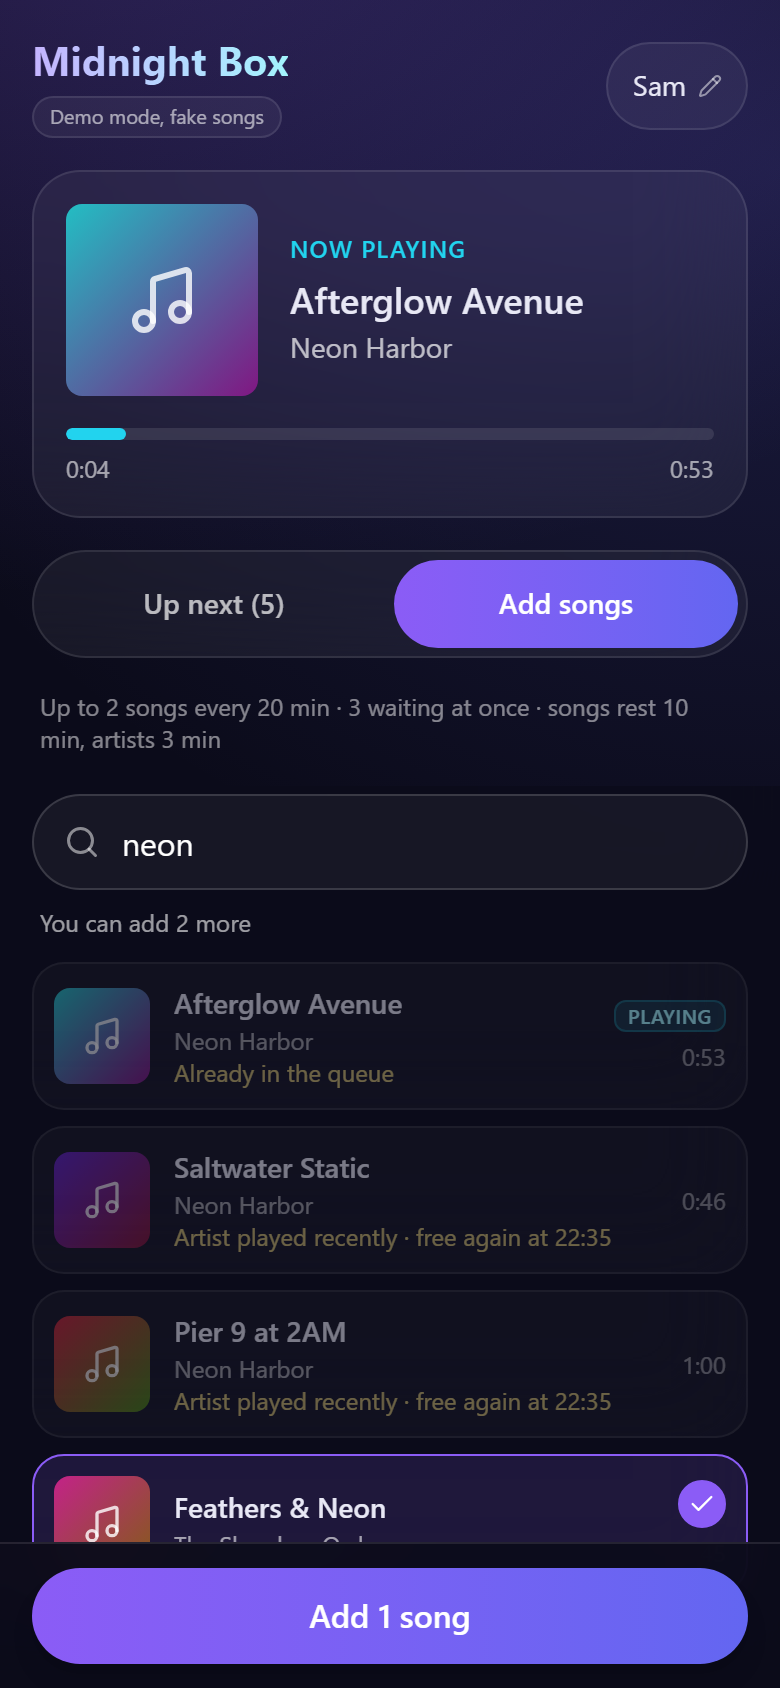
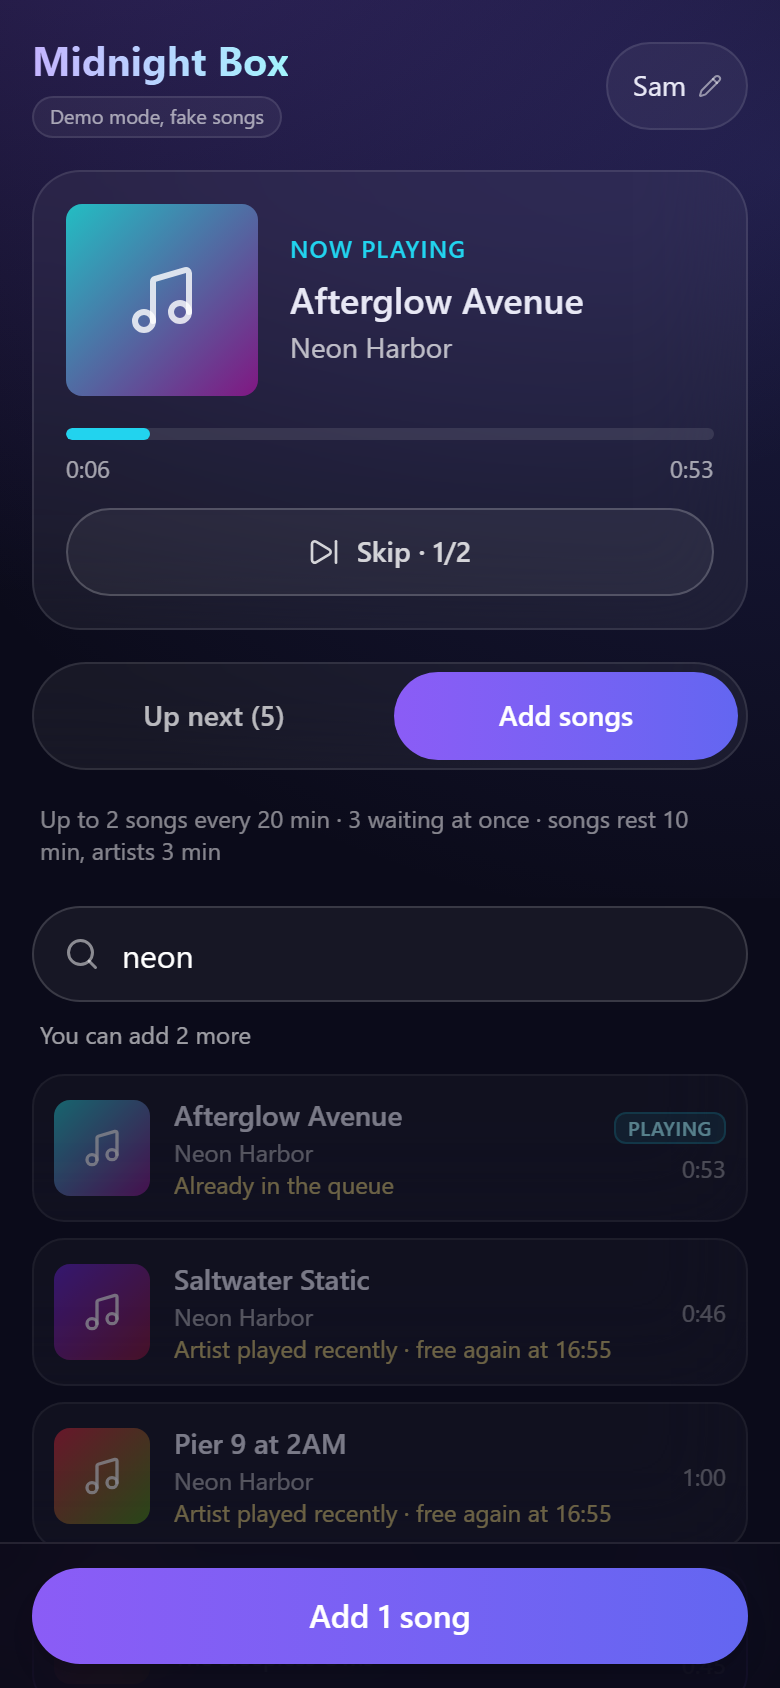
Add TV screenshot and update README

diff --git a/README.md b/README.md
@@ -12,7 +12,10 @@ Built mobile-first, real-time, and with a security model designed for "a laptop 
   <img src="docs/screenshots/search.png" width="200" alt="Search: songs by the artist that's playing are resting, with the time they're free again">
   <img src="docs/screenshots/host.png" width="200" alt="Host panel on a phone: remove songs or guests, switch vote rounds on or off">
 </p>
-<p align="center"><sub>Demo mode on a phone. Screenshots are generated by <code>npm run screenshots</code>.</sub></p>
+<p align="center">
+  <img src="docs/screenshots/tv.png" width="820" alt="TV screen: now playing with skip votes, a live vote round with vote bars and countdown, the QR code to join and the next five songs with who requested them">
+</p>
+<p align="center"><sub>Demo mode on a phone and on the big screen (<code>/tv</code>). Screenshots are generated by <code>npm run screenshots</code>.</sub></p>
 
 ## Features
 
@@ -21,6 +24,10 @@ Built mobile-first, real-time, and with a security model designed for "a laptop 
 - **Vote rounds**: while the queue is short, everyone votes on songs related to what's playing,
   30 seconds at a time, and the winner joins the queue. Guests can back as many songs as they like,
   and voting never uses up their song requests.
+- **Vote to skip**: guests can vote the current song off. It's skipped once half the people
+  at the party agree.
+- **Big-screen display**: open `/tv` on a TV or projector to show what's playing, what's next, the
+  live vote and the QR code to join, readable from across the room.
 - **Fair queue**: guests take turns, so a newcomer's first song plays before someone else's third.
 - **House rules**: separate cooldowns for songs (2 h) and artists (20 min), one song per artist in
   the queue, and per-guest limits (3 waiting, 2 per 20 minutes). Search results show what's
@@ -29,7 +36,8 @@ Built mobile-first, real-time, and with a security model designed for "a laptop 
 - **Gapless hand-off to Spotify**: Midnight Box keeps its own queue and hands Spotify the next
   song just before the current one ends (see [How it works](#how-it-works)).
 - **Host panel, from any device**: password login, connect Spotify, choose the speaker, pause,
-  skip, remove songs, clear cooldowns, switch voting on or off, remove troublemakers from the party.
+  skip, remove songs, clear cooldowns, switch vote rounds and vote-to-skip on or off, remove
+  troublemakers from the party.
 - **Demo mode**: a fake music catalog and a simulated player, so you can try everything without Spotify.
 
 ### Roadmap
@@ -38,7 +46,7 @@ Built mobile-first, real-time, and with a security model designed for "a laptop 
 - [x] Fair queue: guests take turns instead of first come, first served
 - [x] Password-protected host login, so the host can use a phone too
 - [x] Vote rounds: guests vote on suggested songs related to what's playing
-- [ ] Big-screen display page and vote-to-skip
+- [x] Big-screen display page and vote-to-skip
 
 ## Try it in one minute
 
@@ -49,8 +57,8 @@ npm install
 npm run demo
 ```
 
-Open http://127.0.0.1:5173 for the guest view and http://127.0.0.1:5173/admin for the host panel
-(the first visit asks you to set a host password). Phones on the same Wi-Fi can scan the QR code
+Open http://127.0.0.1:5173 for the guest view, http://127.0.0.1:5173/admin for the host panel
+(the first visit asks you to set a host password) and http://127.0.0.1:5173/tv for the big screen. Phones on the same Wi-Fi can scan the QR code
 printed in the terminal. The demo has 36 made-up songs, so songs are shortened to under a minute
 and cooldowns to 10 minutes (songs) and 3 minutes (artists) to keep things moving.
 
@@ -76,12 +84,16 @@ You need a **Spotify Premium** account (Spotify requires it for playback control
 From then on you can also run the host panel from your phone: open `/admin` on the join address
 and log in. Forgot the password? Stop the server and run `npm run reset-password`.
 
+Got a TV or projector? Open `/tv` on the join address in its browser (or on a laptop plugged into it)
+and press the fullscreen button. No login is needed: it only shows what every guest can already see.
+
 ## How it works
 
 ```mermaid
 flowchart LR
   P[Guest phones] -- REST: search, queue --> S[Midnight Box server]
   S -- WebSocket: live state --> P
+  S -- WebSocket: live state --> TV[TV screen]
   S -- Web API: search, playback, queue --> SP[Spotify]
   S -- similar songs --> LF[Last.fm]
   SP -- plays on --> D[Speaker device]
@@ -119,6 +131,12 @@ reached its total first; and with no votes nothing is added, so Spotify's autopl
 takes turns in the fair queue as if the party were one more guest
 ([`server/src/services/votes.ts`](server/src/services/votes.ts)).
 
+**Vote to skip.** A song is skipped once half the guests seen in the last 15 minutes vote against it,
+rounded up and never fewer than two, so nobody can skip alone and the bar rises with the party.
+The target is fixed when the first vote for a song comes in, so it doesn't move while people vote, and
+votes reset when the song changes. Each vote names the song the guest saw, so a late tap can't skip
+the next one ([`server/src/services/skips.ts`](server/src/services/skips.ts)).
+
 **Only the host talks to Spotify.** Guests never authenticate with Spotify; the server makes every
 call with the host's token. That also keeps the app within Spotify's
 [Development Mode limits](https://developer.spotify.com/documentation/web-api/concepts/quota-modes),
@@ -147,8 +165,10 @@ The design assumes guests are untrusted:
   guests only ever see a separate public id.
 - **Bans that stick.** Removing a guest blocks their session and, until the server restarts, the
   address they used, so clearing cookies isn't enough to come back. The host computer can't be banned.
-- **One vote per device.** Votes are counted per network address, so a private tab or cleared
-  cookies don't add votes. A removed guest's votes are dropped from the round.
+- **One vote per device.** Votes, skip votes included, are counted per network address, so a private
+  tab or cleared cookies don't add votes. A removed guest's votes are dropped.
+- **A read-only big screen.** The TV page uses only the public live state and join address. It never
+  gets a guest session, so it can't queue or vote, and it doesn't count as a guest.
 - **Limits enforced on the server.** Queue limits are checked against the database right before each
   insert, so parallel requests can't sneak past them.
 - **CSRF and content-type hardening.** Cross-site writes are rejected, and only JSON bodies are accepted.
@@ -175,10 +195,11 @@ These rules are covered by tests in [`server/test/app.test.ts`](server/test/app.
 shared/types.ts          API contract shared by server and client (types only)
 server/src/
   providers/             MusicProvider interface + Spotify and mock implementations, Last.fm suggestions
-  services/              queue, player control loop, vote rounds, cooldowns, guests, host login, live state
+  services/              queue, player control loop, vote rounds, vote to skip, cooldowns, guests,
+                         host login, live state
   http/                  Fastify app, routes, security helpers
 client/src/
-  pages/                 guest and host views
+  pages/                 guest, host and TV views
   components/, hooks/    UI building blocks, live state + clock-skew handling
 ```
 
